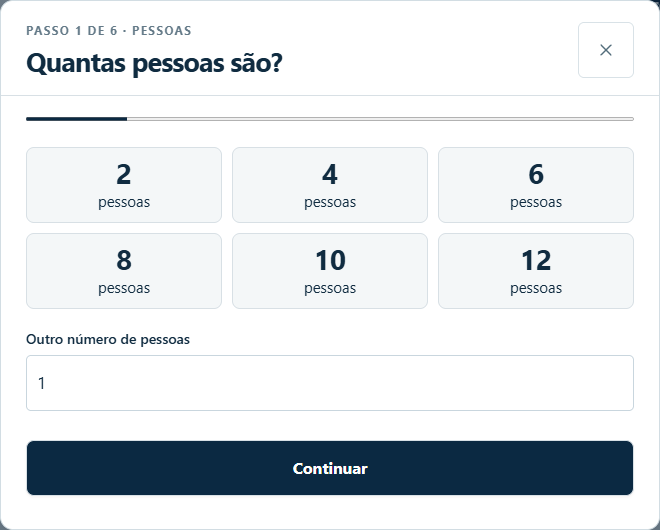
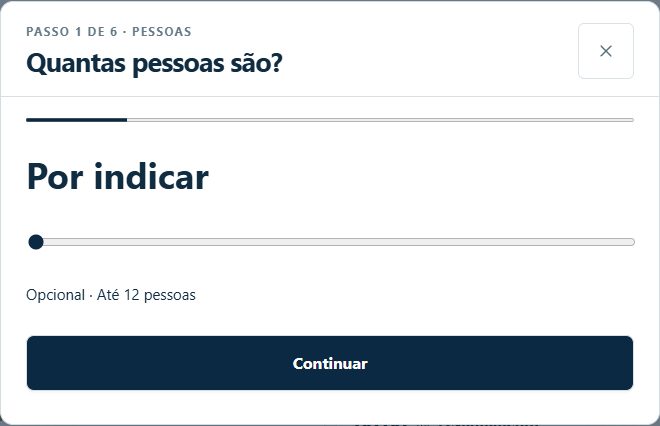
Destaca preço, barca e hora e simplifica o questionário de levantamento

diff --git a/src/app.js b/src/app.js
@@ -29,7 +29,7 @@ const globalState=o=>Object.values(o.tasks).every(v=>v===2)?2:0;
 const typeName=o=>o.type==="restaurante"?"Restaurante":"Particular";
 function lineDescription(i){
  const p=product(i.product);
- if(p.cat===0)return [i.people+" pessoas",i.use,fmtQty(i.budget)+" € de marisco"].join(" · ");
+ if(p.cat===0)return [i.people?partyLabel(i.people):"",i.use,fmtQty(i.budget)+" €"].filter(Boolean).join(" · ");
  if(i.measure==="pieces")return [fmtQty(i.qty)+" peças",fmtQty(i.weight)+" kg por peça",i.cut,i.note].filter(Boolean).join(" · ");
  return [fmtQty(i.qty)+" "+unit(i),i.cut,i.note].filter(Boolean).join(" · ");
 }
@@ -119,7 +119,7 @@ async function readOne(uuid){const rows=await rest("orders?select=*,station_task
 function questionnaireFields(data){
  const phone=normalizedPhone(data.phone);
  if(data.party===undefined)return phone?{customer_phone:phone}:{};
- return {customer_phone:phone,party_size:Number(data.party),occasion:data.occasion,occasion_other:data.occasion==="outro"?data.occasionOther.trim():null,shellfish_preferred:preferences(data,"liked"),shellfish_avoid:preferences(data,"avoid")};
+ return {customer_phone:phone||null,party_size:Number(data.party)||null,occasion:data.occasion,occasion_other:data.occasion==="outro"?(data.occasionOther.trim()||null):null,shellfish_preferred:preferences(data,"liked"),shellfish_avoid:preferences(data,"avoid")};
 }
 async function onlineRequest(url,data){
  if(!data){
@@ -133,7 +133,7 @@ async function onlineRequest(url,data){
    try{await rest("orders?select=shellfish_avoid&limit=0");}
    catch(e){if(e.status===400)throw Error("O questionário aguarda a atualização da base de dados.");throw e;}
   }
-  const r=await rest("rpc/create_order",{payload:{customer_name:data.name.trim(),customer_type:data.type,fulfilment:data.delivery==="Entrega"?"entrega":"recolha",address:data.delivery==="Entrega"?data.address:"",scheduled_time:data.time,business_date:data.day,source:data.channel==="Cliente"?"cliente":"equipa",priority:data.priority?"alta":"normal",notes:data.note,...questionnaireFields(data),client_token:data.requestKey,items:data.items.map(i=>{const p=product(i.product);return {category:catKeys[p.cat],product:label(i),quantity:i.measure==="pieces"?Number((i.qty*i.weight).toFixed(2)):i.qty,unit:unitKeys[p.unit],cut:p.cat===1?i.cut.toLowerCase():null,barca_size:p.cat===0?({bp:"pequena",bm:"media",bg:"grande"}[i.product]):null,meal_type:p.cat===0?(i.use==="Petisco"?"petisco":"refeicao"):null,people:p.cat===0?i.people:null,budget:p.cat===0?i.budget:null,notes:i.measure==="pieces"?[fmtQty(i.qty)+" peças · cerca de "+fmtQty(i.weight)+" kg por peça",i.note].filter(Boolean).join("\n"):i.note};})}});
+  const r=await rest("rpc/create_order",{payload:{customer_name:data.name.trim(),customer_type:data.type,fulfilment:data.delivery==="Entrega"?"entrega":"recolha",address:data.delivery==="Entrega"?data.address:"",scheduled_time:data.time,business_date:data.day,source:data.channel==="Cliente"?"cliente":"equipa",priority:data.priority?"alta":"normal",notes:data.note,...questionnaireFields(data),client_token:data.requestKey,items:data.items.map(i=>{const p=product(i.product);return {category:catKeys[p.cat],product:label(i),quantity:i.measure==="pieces"?Number((i.qty*i.weight).toFixed(2)):i.qty,unit:unitKeys[p.unit],cut:p.cat===1?i.cut.toLowerCase():null,barca_size:p.cat===0?({bp:"pequena",bm:"media",bg:"grande"}[i.product]):null,meal_type:p.cat===0?(i.use==="Petisco"?"petisco":"refeicao"):null,people:p.cat===0?i.people:null,budget:p.cat===0?(p.id==="bp"?Math.max(50,i.budget):i.budget):null,notes:i.measure==="pieces"?[fmtQty(i.qty)+" peças · cerca de "+fmtQty(i.weight)+" kg por peça",i.note].filter(Boolean).join("\n"):i.note};})}});
   return {order:await readOne(r.id)};
  }
  const row=rawOrders.get(url.split("/").at(-1));if(!row)throw Error("Encomenda indisponível.");
@@ -245,10 +245,10 @@ function refreshDeadlines(){
 function orderCard(o,n){
  const lines=o.items.filter(i=>group(i)===station);
  const other=station==="barcas"?"bancada":"barcas";
- return `<article class="ticket ${cls[n]} ${station}-ticket" data-order="${o.id}" aria-label="${esc(code(o.id)+" · "+o.name)}"><div class="ticket-top"><button class="ref" data-detail="${o.id}" aria-label="Abrir ${esc(code(o.id))}">${esc(code(o.id))}</button>${o.priority?`<span class="priority">${icon("flag",13)}Prioritária</span>`:""}${o.tasks[other]!==undefined?`<span class="mixed">Dois postos</span>`:""}</div>
- <button class="ticket-customer" data-detail="${o.id}"><strong>${esc(o.name)}</strong><small>${typeName(o)}</small></button>
+ return `<article class="ticket ${cls[n]} ${station}-ticket" data-order="${o.id}" aria-label="${esc(code(o.id)+" · "+o.name)}"><div class="ticket-top">${station==="barcas"?"":`<button class="ref" data-detail="${o.id}" aria-label="Abrir ${esc(code(o.id))}">${esc(code(o.id))}</button>`}${o.priority?`<span class="priority">${icon("flag",13)}Prioritária</span>`:""}${o.tasks[other]!==undefined?`<span class="mixed">Dois postos</span>`:""}</div>
+ <button class="ticket-customer" data-detail="${o.id}"><strong>${esc(o.name)}</strong></button>
  <div class="ticket-deadline"><strong>${esc(o.time)}</strong><span>${icon(modeIcon(o),18)}${esc(o.delivery)}</span></div>
- <div class="ticket-products">${lines.map(i=>station==="barcas"?`<div class="ticket-product"><h4>${esc(label(i))}${i.qty>1?` × ${fmtQty(i.qty)}`:""}</h4><div class="boat-spec"><strong>${esc(i.people)} pessoas</strong><span>${esc(i.size||product(i.product)?.size||"")}</span></div><p>${esc(i.use)} · ${fmtQty(i.budget)} € de marisco</p>${i.note?`<p class="product-note">${esc(i.note)}</p>`:""}</div>`:`<div class="ticket-product"><div class="product-heading"><h4>${esc(label(i))}</h4><strong class="product-quantity">${fmtQty(i.qty)} <span>${esc(unit(i))}</span></strong></div><p class="product-cut">Corte: <strong>${esc(i.cut||"Não indicado")}</strong></p>${i.note?`<p class="product-note">${esc(i.note)}</p>`:""}</div>`).join("")}</div>
+ <div class="ticket-products">${lines.map(i=>station==="barcas"?`<div class="boat-line"><strong>${fmtQty(i.budget)} €</strong><h4>${esc(label(i))}${i.qty>1?` × ${fmtQty(i.qty)}`:""}</h4>${i.people?`<small>${partyLabel(i.people)}</small>`:""}${i.note?`<p class="product-note">${esc(i.note)}</p>`:""}</div>`:`<div class="ticket-product"><div class="product-heading"><h4>${esc(label(i))}</h4><strong class="product-quantity">${fmtQty(i.qty)} <span>${esc(unit(i))}</span></strong></div><p class="product-cut">Corte: <strong>${esc(i.cut||"Não indicado")}</strong></p>${i.note?`<p class="product-note">${esc(i.note)}</p>`:""}</div>`).join("")}</div>
  ${contactActions(o)}
  ${o.note?`<p class="ticket-note">${esc(o.note)}</p>`:""}
  ${n<2?`<button class="ticket-action primary" data-advance="${o.id}">Pronta</button>`:""}
@@ -276,7 +276,7 @@ function boardContent(){
 function listContent(){
  const stateKey=o=>o.cancelled?"cancelada":o.handed?"entregue":statusKeys[globalState(o)];
  const items=orders.filter(o=>listState==="all"||listState===stateKey(o)).sort(byTime);
- return `<div class="list-tabs">${[["all","Todas"],...preparationStates.map(n=>[statusKeys[n],states[n]]),["entregue","Entregues"],["cancelada","Canceladas"]].map(([key,t])=>`<button data-list="${key}" aria-pressed="${key===listState}" class="${key===listState?"active":""}">${t}</button>`).join("")}</div><div class="order-table"><div class="table-row table-head"><span>Encomenda</span><span>Cliente</span><span>Hora prevista</span><span>Postos</span><span>Estado</span></div>${items.map(o=>`<button data-detail="${o.id}" class="table-row"><strong>${code(o.id)}</strong><span>${esc(o.name)}<small>${typeName(o)}</small></span><span>${esc(o.time)}<small>${esc(o.delivery)}</small></span><span>${Object.keys(o.tasks).map(k=>stations[k]).join(" + ")}</span><span>${o.cancelled?"Cancelada":o.handed?`<span class="delivered">${icon("check",14)} Entregue</span>`:statusPill(globalState(o))}</span></button>`).join("")||empty("Sem encomendas para estes critérios.")}</div>`;
+ return `<div class="list-tabs">${[["all","Todas"],...preparationStates.map(n=>[statusKeys[n],states[n]]),["entregue","Entregues"],["cancelada","Canceladas"]].map(([key,t])=>`<button data-list="${key}" aria-pressed="${key===listState}" class="${key===listState?"active":""}">${t}</button>`).join("")}</div><div class="order-table"><div class="table-row table-head"><span>Encomenda</span><span>Cliente</span><span>Hora prevista</span><span>Postos</span><span>Estado</span></div>${items.map(o=>`<button data-detail="${o.id}" class="table-row"><strong>${code(o.id)}</strong><span>${esc(o.name)}</span><span>${esc(o.time)}<small>${esc(o.delivery)}</small></span><span>${Object.keys(o.tasks).map(k=>stations[k]).join(" + ")}</span><span>${o.cancelled?"Cancelada":o.handed?`<span class="delivered">${icon("check",14)} Entregue</span>`:statusPill(globalState(o))}</span></button>`).join("")||empty("Sem encomendas para estes critérios.")}</div>`;
 }
 function clientContent(){return `<section class="client-intro"><div><h2>Faça a sua encomenda</h2><p>Escolha uma barca, peixe ou marisco para levantar na loja ou receber por entrega.</p>${button("bag","Começar encomenda","new","primary")}</div></section>`;}
 function render(){
@@ -371,7 +371,7 @@ const mkKey=()=>globalThis.crypto?.randomUUID?.()||"demo-"+Date.now().toString(3
 const occasions={refeicao:"Refeição",evento:"Evento",petisco:"Petisco",outro:"Outro"};
 const capacities={bp:3,bm:6,bg:10};
 const steps=["Pessoas","Ocasião","Marisco","Artigos","Contacto e horário","Resumo"];
-const stepTitles=["Quantas pessoas são?","Qual é a ocasião?","Que marisco prefere?","O que vai levar?","Quando e como quer receber a encomenda?","Está tudo certo?"];
+const stepTitles=["Quantas pessoas são?","Qual é a ocasião?","Que marisco prefere?","Escolha a sua barca","Quando vem levantar a barca?","A sua barca"];
 const drafts=new Map();
 let draftScope="",draftStep=1,hadFormError="";
 const keyFor=scope=>"ddm-questionario-2-"+teamSession.user.id+"-"+scope;
@@ -392,7 +392,7 @@ function startOrder(scope="Cliente"){
  }catch{}
  const t=new Date(Date.now()+3600000);
  draftScope=scope;draftStep=saved?.step||1;hadFormError="";
- draft=saved?.draft||{channel:scope,requestKey:mkKey(),party:1,occasion:"",occasionOther:"",liked:[],avoid:[],likedText:"",avoidText:"",
+ draft=saved?.draft||{channel:scope,requestKey:mkKey(),party:null,occasion:"",occasionOther:"",liked:[],avoid:[],likedText:"",avoidText:"",
   boatChoice:"auto",boatCount:1,boatUse:"",itemCategory:1,items:[],name:"",type:"particular",phone:"",delivery:"Levantamento",address:"",
   day:day>lisbonDay(t)?day:lisbonDay(t),time:new Intl.DateTimeFormat("en-GB",{timeZone:"Europe/Lisbon",hour:"2-digit",minute:"2-digit",hourCycle:"h23"}).format(t),note:"",priority:false};
  for(const item of draft.items){
@@ -406,35 +406,23 @@ function normalizedPhone(value){
  return /^\+[1-9][0-9]{7,14}$/.test(digits)?digits:"";
 }
 const preferences=(o,k)=>[...o[k],o[k+"Text"].trim()].filter(Boolean);
-function suggestion(){
- const count=Math.ceil(draft.party/10);
- const size=Object.keys(capacities).find(id=>capacities[id]*count>=draft.party);
- return {size,count};
+function suggestedBoat(){
+ return draft.party<=3?"bp":draft.party<=6?"bm":"bg";
 }
-function boatSelection(){
- return draft.boatChoice==="auto"?suggestion():{size:draft.boatChoice,count:Number(draft.boatCount)};
+function boatPrice(id){
+ const price=Number(draft.party)*20||product(id).budget;
+ return id==="bp"?Math.max(50,price):price;
 }
 function allItems(){
- const {size,count}=boatSelection();
- if(size==="none")return draft.items;
- const people=Math.floor(draft.party/count),extra=draft.party%count;
- const boats=[];
- for(const [qty,n] of [[count-extra,people],[extra,people+1]]){
-  if(qty>0)boats.push({product:size,qty,people:n,budget:Number(draft.boatBudget||product(size).budget),use:draft.boatUse||(draft.occasion==="petisco"?"Petisco":"Refeição"),note:""});
- }
- return [...boats,...draft.items];
+ const size=product(draft.boatChoice)?.cat===0?draft.boatChoice:suggestedBoat();
+ return [{product:size,qty:1,people:Number(draft.party)||null,budget:boatPrice(size),use:draft.occasion==="petisco"?"Petisco":"Refeição",note:""},...draft.items];
 }
 const input=(label,key,value,attrs="")=>`<label class="field"><span>${label}</span><input data-field="o.${key}" value="${esc(value)}" ${attrs}></label>`;
 function options(group,values,selected){
  return `<div class="quiz-options">${values.map(([key,label])=>`<button type="button" data-pick="${group}" data-value="${esc(key)}" aria-pressed="${Array.isArray(selected)?selected.includes(key):key===selected}">${esc(label)}</button>`).join("")}</div>`;
 }
-function counter(label,key,value,max){
- return `<div class="quiz-counter">${input(label,key,value,`type="number" inputmode="numeric" min="1" max="${max}" step="1" required`)}<button type="button" data-count="${key}" data-delta="-1" aria-label="Diminuir ${label}">−</button><button type="button" data-count="${key}" data-delta="1" aria-label="Aumentar ${label}">+</button></div>`;
-}
 function partyStep(){
- const choices=[2,4,6,8,10,12];
- return `<div class="party-options" role="group" aria-label="Escolher e avançar">${choices.map(n=>`<button type="button" data-party="${n}" aria-label="${n} pessoas" aria-pressed="${Number(draft.party)===n}"><strong>${n}</strong><span>pessoas</span></button>`).join("")}</div>
- ${input("Outro número de pessoas","party",draft.party,'type="number" inputmode="numeric" min="1" max="300" step="1" required')}`;
+ return `<label class="party-slider"><output>${draft.party?partyLabel(draft.party):"Por indicar"}</output><input aria-label="Número de pessoas" data-field="o.party" type="range" min="0" max="12" value="${Number(draft.party)||0}"><small>Opcional · Até 12 pessoas</small></label>`;
 }
 function shellfish(group,title){
  const names=catalog.filter(p=>p.cat===2||p.cat===3||["polvo","tigre","lulas"].includes(p.id)).map(p=>[p.name,p.name]);
@@ -442,50 +430,30 @@ function shellfish(group,title){
  ${input("Outro (opcional)",group+"Text",draft[group+"Text"],'maxlength="60"')}</fieldset>`;
 }
 function articleStep(){
- const {size,count}=boatSelection();
- const items=draft.items.map((i,n)=>{
-  const p=product(i.product);
-  return `<div class="quiz-line"><strong>${esc(p.name)}</strong><div class="form-grid"><label class="field">Quantidade (${esc(p.unit)})<input data-item="${n}" data-prop="qty" type="number" min="${p.unit==="un."?1:0.01}" step="${p.unit==="un."?1:0.01}" max="9999" value="${esc(i.qty)}" required></label>
-  ${p.cat===1?`<label class="field">Corte<select data-item="${n}" data-prop="cut">${cuts.map(c=>`<option ${c===i.cut?"selected":""}>${c}</option>`).join("")}</select></label>`:""}</div>
-  <label class="field">Instruções (opcional)<input data-item="${n}" data-prop="note" maxlength="200" value="${esc(i.note||"")}"></label>
-  <button type="button" class="btn" data-drop="${n}">Remover ${esc(p.name)}</button></div>`;
- }).join("");
- const otherArticles=`<fieldset><legend>Peixe, marisco e congelados</legend>${options("itemCategory",categories.slice(1).map((c,i)=>[String(i+1),c]),String(draft.itemCategory))}
- <div class="quiz-options">${catalog.filter(p=>p.cat===Number(draft.itemCategory)).map(p=>`<button type="button" data-add="${esc(p.id)}">+ ${esc(p.name)}</button>`).join("")}</div></fieldset>`;
- if(size==="none")return options("boatChoice",[["auto","Usar sugestão de barca"]],size)+otherArticles+items;
- const boat=product(size);
- const edits=options("boatChoice",[["auto","Usar sugestão"],...Object.keys(capacities).map(id=>[id,product(id).name])],draft.boatChoice)
-  +(draft.boatChoice!=="auto"?counter("Número de barcas","boatCount",count,draft.party):"")
-  +input("Marisco por barca (€)","boatBudget",draft.boatBudget??boat.budget,'type="number" required step="0.01" min="1" max="10000"')
-  +options("boatUse",[["Refeição","Refeição"],["Petisco","Petisco"]],draft.boatUse||(draft.occasion==="petisco"?"Petisco":"Refeição"));
- return `<div class="boat-summary"><strong>${count} × ${esc(boat.name)}</strong><span>${partyLabel(draft.party)} · ${esc(boat.size)} · ${fmtQty(draft.boatBudget??boat.budget)} € de marisco por barca</span></div>`
-  +quizSection("boat","Ajustar barca",edits)
-  +quizSection("articles","Juntar peixe ou marisco",otherArticles)
-  +items+options("boatChoice",[["none","Não quero barca"]],size);
+ const suggested=suggestedBoat(),selected=allItems()[0].product;
+ return `<div class="boat-options">${Object.keys(capacities).map(id=>`<button type="button" data-pick="boatChoice" data-value="${id}" aria-pressed="${selected===id}" class="${id===suggested?"suggested":""}">${icon("boat",40)}<b>${product(id).name}</b><strong>${fmtQty(boatPrice(id))} €</strong>${id===suggested?"<small>Sugerida</small>":""}</button>`).join("")}</div><p>${draft.party?"Sugestão de 20 € por pessoa. ":""}Barca pequena a partir de 50 €.</p>`;
 }
 function contactStep(){
- return `${options("delivery",[["Levantamento","Levantar na loja"],["Entrega","Entrega"]],draft.delivery)}
- ${draft.delivery==="Entrega"?input("Morada de entrega","address",draft.address,'required maxlength="200"'):""}
- <div class="form-grid">${input("Dia","day",draft.day,`type="date" min="${dayNow()}" max="${shiftDay(dayNow(),365)}" required`)}${input("Hora","time",draft.time,'type="time" required')}</div>
- ${input("Nome do cliente ou restaurante","name",draft.name,'required maxlength="80"')}
- ${options("type",[["particular","Particular"],["restaurante","Restaurante"]],draft.type)}
- ${input("Telemóvel","phone",draft.phone,'type="tel" inputmode="tel" required maxlength="40" placeholder="Número português ou +indicativo e número"')}
- <p>Usamos o nome e o telemóvel só para esta encomenda.</p>
+ return ` <div class="form-grid">${input("Dia","day",draft.day,`type="date" min="${dayNow()}" max="${shiftDay(dayNow(),365)}" required`)}${input("Hora","time",draft.time,'type="time" required')}</div>
+ ${input("Nome do cliente ou restaurante","name",draft.name,'required maxlength="80" autocomplete="name"')}<div data-ink></div>
+ 
+ ${input("Telemóvel (opcional)","phone",draft.phone,'type="tel" inputmode="tel" maxlength="40" placeholder="Número português ou +indicativo e número"')}
+
  ${input("Notas (opcional)","note",draft.note,'maxlength="600"')}
  ${draftScope==="Equipa"?`<label class="checkfield"><input type="checkbox" data-field="o.priority" ${draft.priority?"checked":""}> Encomenda prioritária</label>`:""}
 `;
 }
 const partyLabel=n=>fmtQty(n)+" "+(Number(n)===1?"pessoa":"pessoas");
 function review(){
- const description=[partyLabel(draft.party),occasions[draft.occasion],draft.occasion==="outro"?draft.occasionOther:""].filter(Boolean).join(" · ");
- return `<p><strong>${esc(description)}</strong></p>${allItems().map(i=>`<p><strong>${esc(label(i))}${product(i.product).cat===0?" × "+fmtQty(i.qty):""}</strong> · ${esc(lineDescription(i))}</p>`).join("")}
- <p>Marisco preferido: ${esc(preferences(draft,"liked").join(", ")||"Sem preferência")}</p><p>Marisco a evitar: ${esc(preferences(draft,"avoid").join(", ")||"Sem preferência")}</p>
- <p>${esc(draft.delivery)} · ${esc(draft.day)} às ${esc(draft.time)}${draft.delivery==="Entrega"?" · "+esc(draft.address):""}</p>
- <p>${esc(draft.name)} · ${esc(draft.phone)}</p>${draft.note?`<p>${esc(draft.note)}</p>`:""}${draft.priority?"<p>Encomenda prioritária</p>":""}`;
+ const description=[draft.party?partyLabel(draft.party):"",occasions[draft.occasion],draft.occasion==="outro"?draft.occasionOther:""].filter(Boolean).join(" · ");
+ return `<div class="boat-summary"><strong>${esc(label(allItems()[0]))} · ${fmtQty(allItems()[0].budget)} €</strong><span>${esc(description)}</span></div>${draft.items.map(i=>`<p><strong>${esc(label(i))}${product(i.product).cat===0?" × "+fmtQty(i.qty):""}</strong> · ${esc(lineDescription(i))}</p>`).join("")}
+ <p>Marisco preferido: ${esc(preferences(draft,"liked").join(", ")||"À maneira da casa")}</p>${preferences(draft,"avoid").length?`<p>Marisco a evitar · ${esc(preferences(draft,"avoid").join(", "))}</p>`:""}
+ <p class="review-pickup">${esc(draft.delivery)} · ${esc(draft.day)} às ${esc(draft.time)}${draft.delivery==="Entrega"?" · "+esc(draft.address):""}</p>
+ <p>${esc([draft.name,draft.phone].filter(Boolean).join(" · "))}</p>${draft.note?`<p>${esc(draft.note)}</p>`:""}${draft.priority?"<p>Encomenda prioritária</p>":""}`;
 }
 function drawForm(){
  const pages=[partyStep,
-  ()=>options("occasion",Object.entries(occasions),draft.occasion)+(draft.occasion==="outro"?input("Descreva a ocasião","occasionOther",draft.occasionOther,'required maxlength="100"'):""),
+  ()=>options("occasion",Object.entries(occasions),draft.occasion)+(draft.occasion==="outro"?input("Descreva a ocasião","occasionOther",draft.occasionOther,'maxlength="100"'):""),
   ()=>quizSection("liked","Marisco preferido",shellfish("liked","Há algum marisco de que goste especialmente?"),preferences(draft,"liked").length>0)
    +quizSection("avoid","Marisco a evitar",shellfish("avoid","Há algum de que não goste ou não possa comer?"),preferences(draft,"avoid").length>0),
   articleStep,contactStep,review];
@@ -500,12 +468,12 @@ function quizSection(key,title,content,initiallyOpen=false){
  return `<details class="quiz-section" data-section="${key}" ${(existing?existing.open:initiallyOpen)?"open":""}><summary>${title}</summary>${content}</details>`;
 }
 function nextQuizStep(){
- draft.boatCount=Math.min(Number(draft.boatCount)||1,Number(draft.party));
+
  draftStep++;hadFormError="";drawForm();dialog.scrollTop=0;
  const title=panel.querySelector("h2");title.tabIndex=-1;title.focus({preventScroll:true});
 }
 function quizError(){
- if(draftStep===2&&(!draft.occasion||(draft.occasion==="outro"&&!draft.occasionOther.trim())))return "Indique a ocasião.";
+ if(draftStep===2&&!draft.occasion)return "Indique a ocasião.";
  if(draftStep===2&&draft.occasion==="outro"&&Array.from(draft.occasionOther).length>100)return "A descrição da ocasião pode ter até 100 caracteres.";
  if(draftStep===3){
   for(const key of ["liked","avoid"]){
@@ -516,7 +484,7 @@ function quizError(){
  }
  if(draftStep===4&&!allItems().length)return "Adicione pelo menos um artigo para continuar.";
  if(draftStep===5){
-  if(!normalizedPhone(draft.phone))return "Indique 9 dígitos para Portugal ou + seguido do indicativo e do número (8 a 15 dígitos).";
+  if(draft.phone.trim()&&!normalizedPhone(draft.phone))return "Indique 9 dígitos para Portugal ou + seguido do indicativo e do número (8 a 15 dígitos).";
   if(!draft.name.trim()||(draft.delivery==="Entrega"&&!draft.address.trim()))return "Preencha os campos obrigatórios.";
  }
  return "";
@@ -613,7 +581,7 @@ function qEditor(){
  const instructions=qinput("Instruções do artigo (opcional)","i.note",qEntry.note,'maxlength="200" placeholder="Ex. embalar em separado"');
  return `<div class="editor">${picker}
  ${(!shortcuts.includes(p.id)||qEntry.name!==p.name)?`<strong>${esc(qEntry.name||p.name)}</strong>`:""}
- ${p.cat===0?`<p class="boat-price">${icon("boat",16)} ${esc(p.size)} · Referência de ${p.budget} € em marisco por barca</p><div class="form-grid three">${qinput("N.º de barcas","i.qty",qEntry.qty,'type="number" min="1" max="9999" step="1" required')}${qinput("Pessoas por barca","i.people",qEntry.people,'type="number" min="1" max="300" step="1" required')}${qinput("Marisco por barca (€)","i.budget",qEntry.budget,'type="number" min="1" max="10000" step="0.01" required')}</div><label class="field"><span>Tipo de serviço</span><select data-qf="i.use">${opts(["Refeição","Petisco"].map(x=>[x,x]),qEntry.use)}</select></label>`:
+ ${p.cat===0?`<p class="boat-price">${icon("boat",16)} ${esc(p.size)} · Referência de ${p.budget} € em marisco por barca</p><div class="form-grid three">${qinput("N.º de barcas","i.qty",qEntry.qty,'type="number" min="1" max="9999" step="1" required')}${qinput("Pessoas por barca","i.people",qEntry.people,'type="number" min="1" max="300" step="1" required')}${qinput("Marisco por barca (€)","i.budget",qEntry.budget,`type="number" min="${p.id==="bp"?50:1}" max="10000" step="0.01" required`)}</div><label class="field"><span>Tipo de serviço</span><select data-qf="i.use">${opts(["Refeição","Petisco"].map(x=>[x,x]),qEntry.use)}</select></label>`:
  `${p.cat===1?`<div class="quiz-options" role="group" aria-label="Forma de encomendar"><button type="button" data-qmeasure="weight" aria-pressed="${qEntry.measure!=="pieces"}">Ao quilo</button><button type="button" data-qmeasure="pieces" aria-pressed="${qEntry.measure==="pieces"}">À peça</button></div>`:""}<div class="form-grid">${qinput(qEntry.measure==="pieces"?"Número de peixes":"Quantidade ("+p.unit+")","i.qty",qEntry.qty,`type="number" min="${qEntry.measure==="pieces"||p.unit==="un."?1:"0.01"}" max="9999" step="${qEntry.measure==="pieces"||p.unit==="un."?1:"0.01"}" required`)}${qEntry.measure==="pieces"?qinput("Peso aproximado por peixe (kg)","i.weight",qEntry.weight,'type="number" min="0.01" max="100" step="0.01" required'):""}</div>`}
  <details class="quiz-section"><summary>${p.cat===1?esc(qEntry.cut)+" · Alterar corte ou notas":"Notas do artigo"}</summary>${cut}${instructions}</details>
  <div class="item-actions"><button type="submit" class="btn outline">${qEdit<0?"Adicionar à encomenda":"Guardar artigo"}</button>
@@ -654,11 +622,20 @@ document.addEventListener("input",e=>{
  if(!t.closest("#quizForm")||!draft)return;
  if(t.dataset.field){const k=t.dataset.field.slice(2);draft[k]=t.type==="checkbox"?t.checked:t.value;}
  if(t.dataset.item!==undefined)draft.items[Number(t.dataset.item)][t.dataset.prop]=t.dataset.prop==="qty"?Number(t.value):t.value;
+ if(t.dataset.field==="o.party"){draft.party=Number(t.value)||null;t.previousElementSibling.textContent=draft.party?partyLabel(draft.party):"Por indicar";}
  if(["o.likedText","o.avoidText"].includes(t.dataset.field)){
   const key=t.dataset.field==="o.likedText"?"liked":"avoid";
   t.closest("fieldset").querySelector('[data-value="none"]').setAttribute("aria-pressed",!preferences(draft,key).length);
  }
  persistDraft();
+});
+document.addEventListener("click",async event=>{
+ const field=event.target.closest('#quizForm [data-field="o.name"]');
+ if(!field)return;
+ const host=panel.querySelector("[data-ink]");
+ if(!host||host.childElementCount)return;
+ try{const {openPad}=await import(new URL("./handwriting.js",document.baseURI).href);if(host.isConnected&&!host.childElementCount)openPad(host,field);}
+ catch{notice("Escrita à mão indisponível. Pode escrever o nome com o teclado.");}
 });
 document.addEventListener("change",e=>{
  const t=e.target;

diff --git a/src/handwriting.js b/src/handwriting.js
@@ -1,0 +1,35 @@
+import {createWorker, PSM} from 'tesseract.js';
+
+export function openPad(host, field){
+ host.innerHTML='<canvas width="900" height="210" aria-label="Escreva o nome em letra de imprensa"></canvas><small>Escreva em letra de imprensa</small><div><button type="button" class="btn">Limpar</button> <button type="button" class="btn">Ler nome</button></div><span role="status"></span>';
+ const canvas=host.querySelector('canvas'),ctx=canvas.getContext('2d');
+ const [clear,read]=host.querySelectorAll('button'),status=host.querySelector('[role=status]');
+ function reset(){ctx.fillStyle='white';ctx.fillRect(0,0,canvas.width,canvas.height);read.disabled=true;}
+ reset();clear.onclick=reset;
+ function point(e){
+  const box=canvas.getBoundingClientRect();
+  return [(e.clientX-box.left)*canvas.width/box.width,(e.clientY-box.top)*canvas.height/box.height];
+ }
+ canvas.onpointerdown=e=>{
+  if(!e.isPrimary||clear.disabled)return;
+  canvas.setPointerCapture(e.pointerId);ctx.lineWidth=5;ctx.lineCap='round';ctx.lineJoin='round';
+  ctx.beginPath();ctx.moveTo(...point(e));read.disabled=false;
+ };
+ canvas.onpointermove=e=>{if(canvas.hasPointerCapture(e.pointerId)){ctx.lineTo(...point(e));ctx.stroke();}};
+ read.onclick=async()=>{
+  clear.disabled=read.disabled=true;status.textContent='A ler o nome…';
+  const original=field.value;
+  let worker;
+  try{
+   const path=new URL('./ocr/',document.baseURI).href;
+   worker=await createWorker('por',1,{workerPath:path+'worker.min.js',corePath:path+'core.wasm.js',langPath:path});
+   await worker.setParameters({tessedit_pageseg_mode:PSM.SINGLE_LINE});
+   const {data}=await worker.recognize(canvas);
+   if(!field.isConnected||field.value!==original)return;
+   const name=data.text.trim().replace(/\s+/g,' ').slice(0,80);
+   if(name){field.value=name;field.dispatchEvent(new Event('input',{bubbles:true}));status.textContent='Confirme o nome acima.';}
+   else status.textContent='Escreva novamente ou use o teclado.';
+  }catch{status.textContent='Não foi possível ler. Pode escrever o nome com o teclado.';}
+  finally{clear.disabled=read.disabled=false;if(worker)await worker.terminate();}
+ };
+}

diff --git a/src/estilo.css b/src/estilo.css
@@ -139,3 +139,5 @@ nav [data-nav],.ticket .ref,.ticket-customer,.task-btns .btn,.global .btn,.list-
 .ticket-customer strong,.bancada-ticket .ticket-customer strong{font-size:26px}
 @media(min-width:1200px){.lane-body{grid-template-columns:repeat(4,minmax(0,1fr))}}
 @media(max-width:690px){.lane-body{grid-template-columns:minmax(0,1fr)}}
+.barcas-ticket{display:flex;flex-direction:column}.barcas-ticket .ticket-products{order:-3;margin:0}.boat-line{display:grid;grid-template-columns:auto 1fr;align-items:baseline;gap:3px 12px}.boat-line>strong{font-size:32px}.boat-line h4{font-size:22px;margin:0}.boat-line small,.boat-line .product-note{grid-column:2}.barcas-ticket .ticket-deadline{order:-2;margin:6px 0;padding:5px 0;background:transparent;justify-content:flex-start;gap:8px}.barcas-ticket .ticket-deadline strong{font-size:22px}.barcas-ticket .ticket-top:empty{display:none}.barcas-ticket .ticket-customer strong{font-size:18px}.barcas-ticket .ticket-customer{min-height:44px}.party-slider{display:grid;gap:12px}.party-slider output{font-size:36px;font-weight:750}.party-slider input{width:100%;height:56px;accent-color:var(--navy)}.boat-options{display:grid;grid-template-columns:repeat(3,minmax(0,1fr));gap:10px}.boat-options button{display:grid;place-items:center;align-content:center;gap:8px;min-height:140px;padding:8px;border:2px solid var(--line);border-radius:12px}.boat-options .suggested{box-shadow:0 0 12px #ec9b3190}.boat-options [aria-pressed=true]{border-color:var(--navy);background:#eaf2f6}.boat-options strong{font-size:22px}
+[data-ink] canvas{display:block;width:100%;height:110px;touch-action:none;border:2px solid var(--line);border-radius:8px}[data-ink]:not(:empty){display:grid;gap:8px;margin-bottom:16px}
